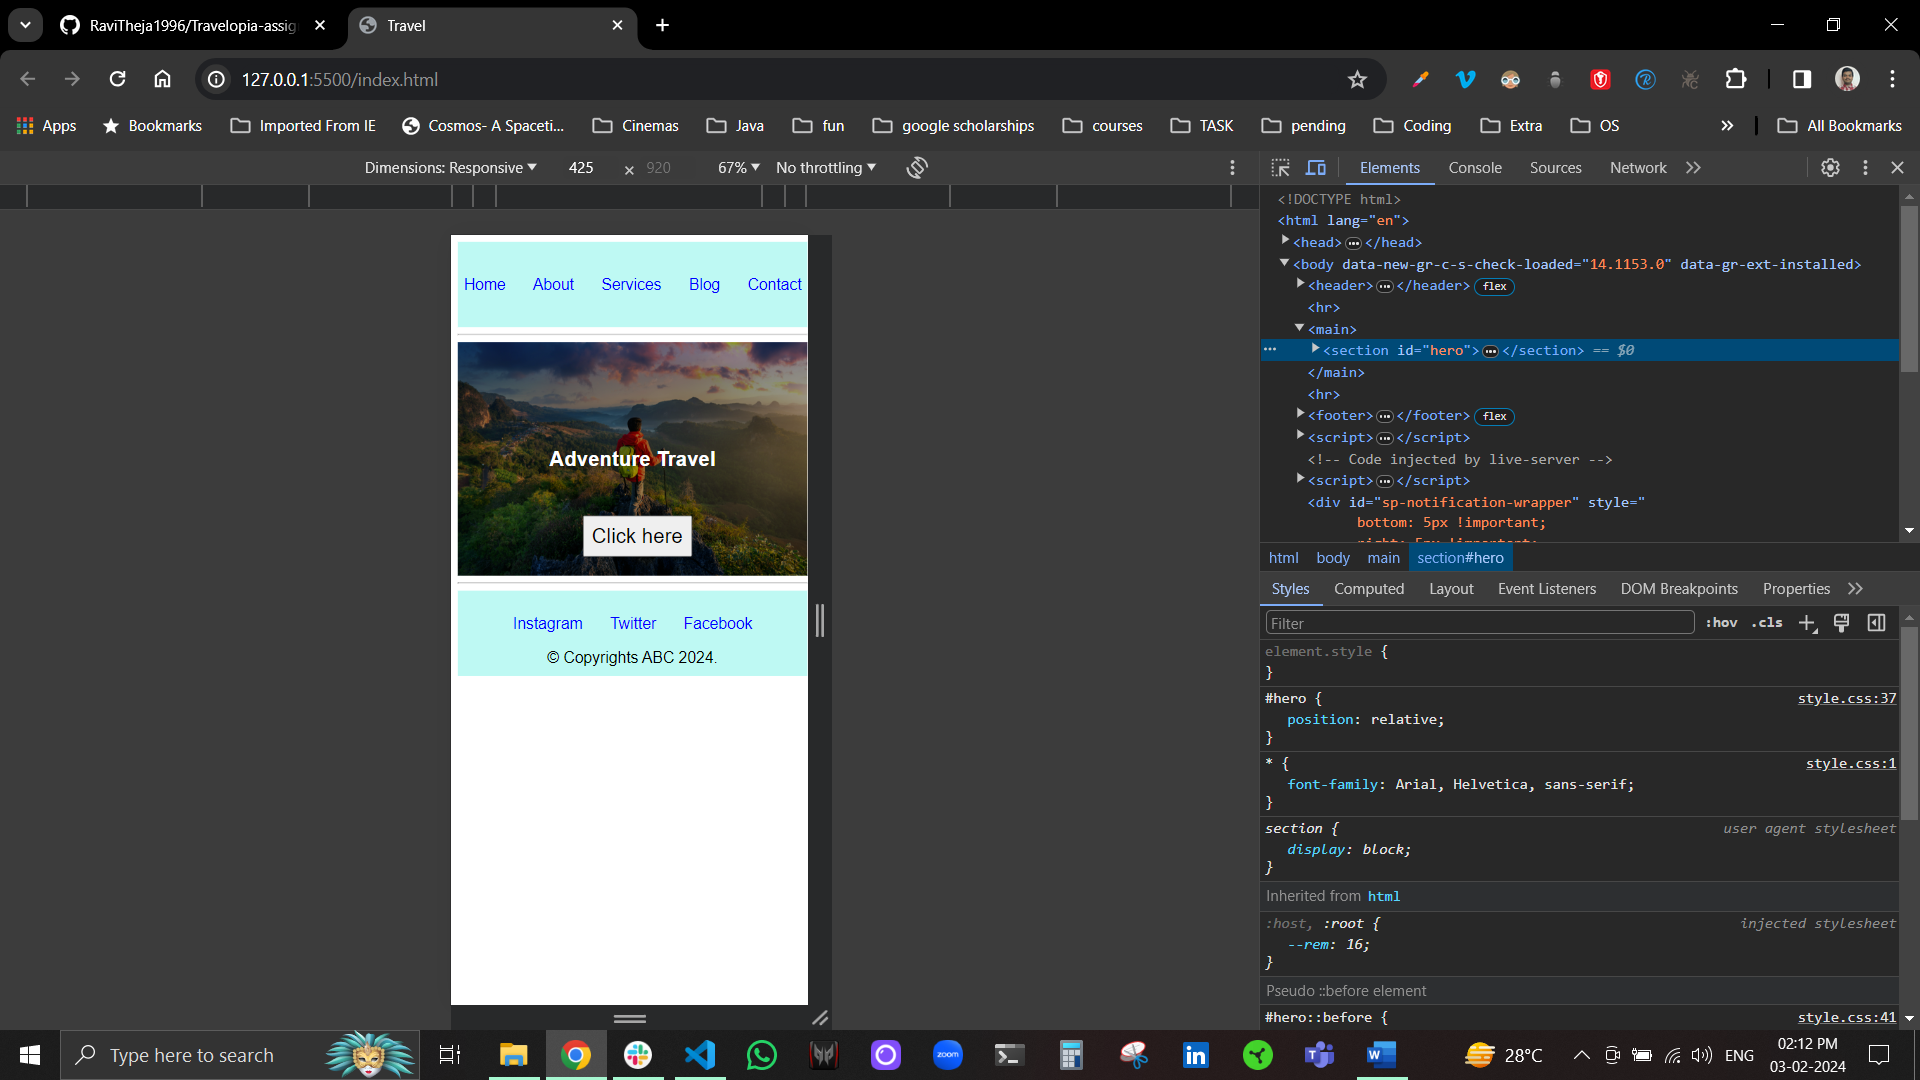
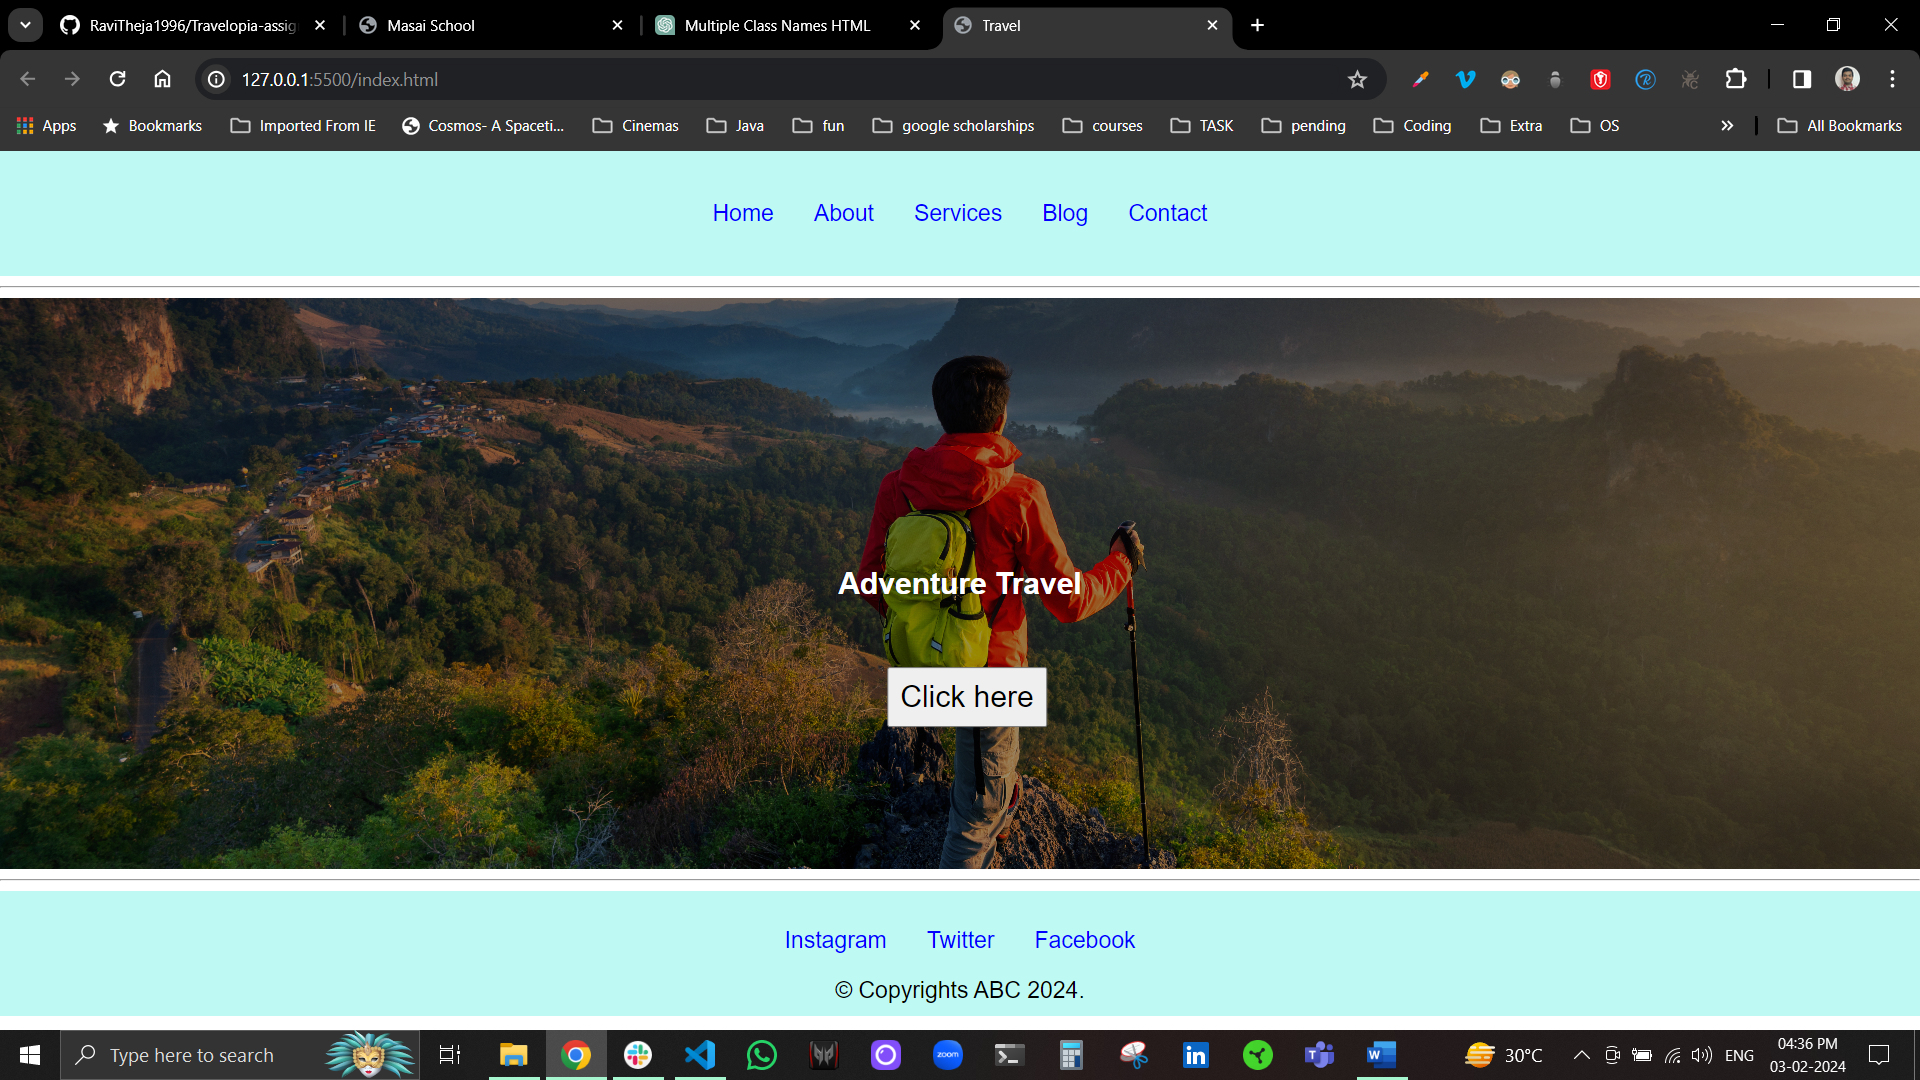
made the entire content fit into visible view port for all screen sizes

diff --git a/README.md b/README.md
@@ -23,6 +23,5 @@ This is a full-page component built for a specific problem statement which conta
 ## screenshots
 
 ![Screenshot 1](./screenshots/Screenshot-01.png)
-![Screenshot 1](./screenshots/Screenshot-02.png)
-![Screenshot 1](./screenshots/Screenshot-03.png)
-![Screenshot 1](./screenshots/Screenshot-04.png)
+![Screenshot 2](./screenshots/Screenshot-02.png)
+![Screenshot 3](./screenshots/Screenshot-03.png)
